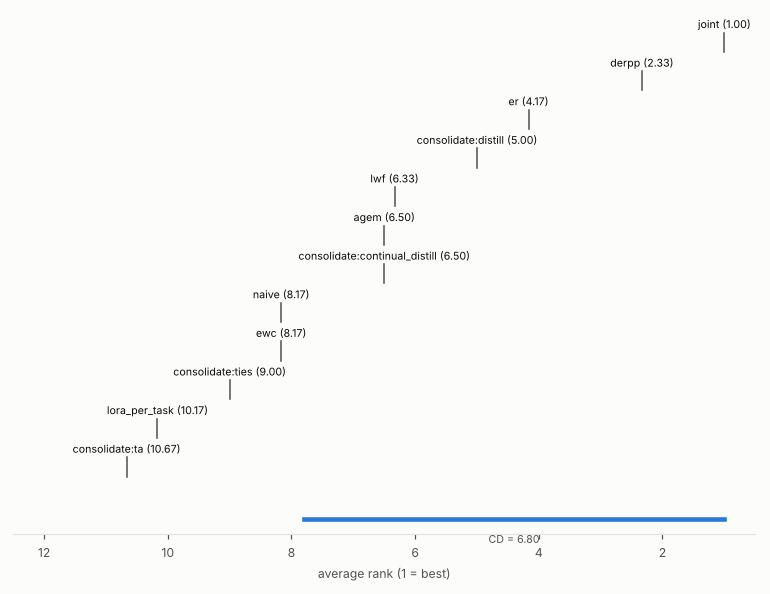
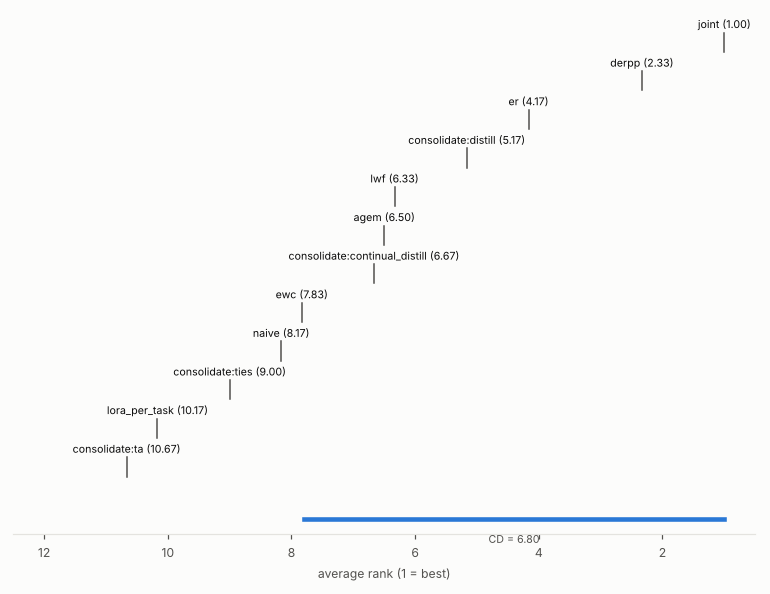
Results: EWC with the stiffness cap in the main study and the tuned sweep
The 24 SGD EWC runs of cpu_main and the 72 runs of the cpu_tuned EWC sweep
were re-run with the Fisher clamped at 1/(lr*lambda); only their CSV rows
change, and every other row is unchanged byte for byte. The tuned EWC rows'
intransigence was recomputed against the same Joint runs.

- No run diverges any more: cpu_main has 324 done runs.
- MNIST results are unchanged (the cap binds on one Permuted MNIST seed).
- On CIFAR EWC is stable but below Naive: 0.159 vs 0.182 on Split CIFAR-10,
  0.041 vs 0.046 on Split CIFAR-100.
- Tuned sweep: lambda 100 and 300 no longer diverge on Permuted MNIST (0.817,
  0.769); lambda 30 is still selected (0.832).
- Average ranks: EWC 7.8, multi-teacher distillation 5.2, continual
  distillation 6.7; Friedman p = 5.8e-6.

Results page, FAQ, README, home pages, llms.txt, CHANGELOG (Fixed), HANDOFF
and the CD diagram are updated.

diff --git a/docs/wiki/Results.md b/docs/wiki/Results.md
@@ -51,12 +51,26 @@ contilab. The page has three experiments:
 > - Average ranks: DER++ 2.3 (was 2.7), multi-teacher distillation 5.0 (4.7), EWC 8.2 (9.5). DER++ is no longer
 >   significantly ahead of EWC.
 
+> **Update: EWC stiffness cap.** Under SGD, EWC's penalty multiplies a parameter's distance from its anchor by
+> (1 − lr·λ·F) per step, and the online Fisher F only grows from task to task. Once lr·λ·F exceeds 2 the
+> parameter oscillates with growing amplitude, which is how the divergences above came about. EWC now clamps the
+> stored Fisher at 1 / (lr·λ) when the optimiser is SGD (see [Methods](Methods.md)). The 24 SGD EWC runs of the
+> main study and the 72 runs of the tuned EWC sweep were re-run:
+> - No run diverges any more: the main study has 324 done runs.
+> - The MNIST results are unchanged except one Permuted MNIST seed, where the cap binds (0.8294 instead of 0.8287).
+> - On CIFAR, EWC is stable but below Naive: 0.159 vs 0.182 on Split CIFAR-10 and 0.041 vs 0.046 on Split
+>   CIFAR-100.
+> - In the tuned comparison, λ = 100 and λ = 300 no longer diverge on Permuted MNIST (0.817 and 0.769), and
+>   λ = 30 is still selected (0.832).
+> - Average ranks: EWC 7.8 (was 8.2), multi-teacher distillation 5.2, continual distillation 6.7; Friedman
+>   p = 5.8·10⁻⁶.
+
 ## Setup
 
 | | |
 |---|---|
 | Hardware | 4 CPU cores (Intel Xeon @ 2.1 GHz, AMX/AVX512-BF16), 15 GB RAM, no GPU |
-| Main study | 12 methods × (3 MNIST benchmarks × 6 seeds + 3 other benchmarks × 3 seeds) = **324 runs**: 320 done, 4 diverged (EWC on Split CIFAR-10 and CIFAR-100), 0 failed |
+| Main study | 12 methods × (3 MNIST benchmarks × 6 seeds + 3 other benchmarks × 3 seeds) = **324 runs**: 324 done, 0 diverged, 0 failed |
 | Vision | Split MNIST (Class-IL and Task-IL) and Permuted MNIST (10 tasks, 10k/2k samples per task) with an MLP 2×400, 1 epoch, SGD lr 0.03; Split CIFAR-10 and Split CIFAR-100 (Class-IL; 5 × 2 and 10 × 10 classes) with a reduced ResNet-18, **2 epochs**, bf16 |
 | Language | text5 (AG News → Yelp → Amazon → DBpedia → Yahoo, 33 classes) with **Pythia-70M**, **1,000 train / 200 test texts per task**, 1 epoch, AdamW lr 1e-4, batch 16 |
 | Memory budget | 500 samples (vision) / 200 (text) for ER, DER++, A-GEM and both distillation methods |
@@ -71,14 +85,13 @@ Deviations from the original design, all made to fit a CPU budget:
 
 ## Accuracy overview
 
-Final average accuracy (ACC), mean ± std over 6 seeds (MNIST benchmarks) or 3 seeds (CIFAR, text5). † = number of
-seeds that diverged; the mean is over the other seeds.
+Final average accuracy (ACC), mean ± std over 6 seeds (MNIST benchmarks) or 3 seeds (CIFAR, text5).
 
 | Method | Split MNIST (Class-IL) | Split MNIST (Task-IL) | Permuted MNIST (Domain-IL) | Split CIFAR-10 (Class-IL) | Split CIFAR-100 (Class-IL) | text5 + Pythia-70M (Class-IL) |
 |---|---|---|---|---|---|---|
 | Naive | 0.196 ± 0.000 | 0.980 ± 0.001 | 0.805 ± 0.011 | 0.182 ± 0.004 | 0.046 ± 0.004 | 0.097 ± 0.016 |
 | Joint | 0.950 ± 0.002 | 0.993 ± 0.001 | 0.909 ± 0.006 | 0.462 ± 0.017 | 0.120 ± 0.006 | 0.529 ± 0.015 |
-| EWC | 0.196 ± 0.000 | 0.981 ± 0.001 | 0.832 ± 0.015 | 0.165 ± 0.004 †1 | diverged (3/3) | 0.105 ± 0.015 |
+| EWC | 0.196 ± 0.000 | 0.981 ± 0.001 | 0.832 ± 0.015 | 0.159 ± 0.009 | 0.041 ± 0.002 | 0.105 ± 0.015 |
 | LwF | 0.228 ± 0.005 | 0.990 ± 0.001 | 0.817 ± 0.010 | 0.171 ± 0.004 | 0.047 ± 0.002 | 0.105 ± 0.006 |
 | ER | 0.858 ± 0.012 | 0.983 ± 0.001 | 0.869 ± 0.004 | 0.290 ± 0.027 | 0.057 ± 0.007 | 0.329 ± 0.038 |
 | DER++ | 0.871 ± 0.014 | 0.991 ± 0.001 | 0.902 ± 0.002 | 0.285 ± 0.018 | 0.063 ± 0.007 | 0.397 ± 0.068 |
@@ -98,18 +111,17 @@ seeds that diverged; the mean is over the other seeds.
 | 1.0 | Joint |
 | 2.3 | DER++ |
 | 4.2 | ER |
-| 5.0 | Multi-teacher distillation |
+| 5.2 | Multi-teacher distillation |
 | 6.3 | LwF |
 | 6.5 | A-GEM |
-| 6.5 | Continual distillation |
+| 6.7 | Continual distillation |
+| 7.8 | EWC |
 | 8.2 | Naive |
-| 8.2 | EWC |
 | 9.0 | TIES |
 | 10.2 | LoRA-per-task |
 | 10.7 | Task Arithmetic |
 
-A diverged seed is ranked by the final accuracy of its model, whose parameters stop changing at the divergence.
-The Friedman test gives p = 4.5·10⁻⁶, and the Nemenyi critical difference is 6.80 (α = 0.05). With 6
+The Friedman test gives p = 5.8·10⁻⁶, and the Nemenyi critical difference is 6.80 (α = 0.05). With 6
 benchmarks the CD is still wide:
 
 - Joint is significantly better than Naive, EWC, TIES, LoRA-per-task and Task Arithmetic.
@@ -152,7 +164,7 @@ With 6 pairs the smallest possible two-sided p is 0.031, reached when every seed
    - ER on Split CIFAR-10 (0.290, DER++ 0.285), and DER++ on Split CIFAR-100 (0.063, ER 0.057)
    - multi-teacher distillation on text5 (0.452)
 
-   Average ranks: DER++ 2.3, ER 4.2, multi-teacher distillation 5.0. Replay also has the smallest stability gap,
+   Average ranks: DER++ 2.3, ER 4.2, multi-teacher distillation 5.2. Replay also has the smallest stability gap,
    for example 0.150 (DER++) vs 0.995 for Naive on Split MNIST Class-IL.
 2. **Multi-teacher distillation buys accuracy with experts.**
    - It keeps every task expert: 11 MB of stored models on Split MNIST against 1.8 MB for a single model.
@@ -179,14 +191,19 @@ With 6 pairs the smallest possible two-sided p is 0.031, reached when every seed
    on Split MNIST Class-IL, with task-recency bias ≈ 1.0: almost every old-task sample is predicted as a
    newest-task class. LwF is above Naive on all 6 seeds; EWC with λ = 30 is not (higher on 2 of 6 seeds,
    p = 1), and λ = 100 led by only 0.001. The same holds on text5 (0.105 vs 0.097), Split CIFAR-10 (LwF 0.171,
-   EWC 0.165, Naive 0.182) and Split CIFAR-100 (LwF 0.047 vs 0.046). Tuning does not change this (see
+   EWC 0.159, Naive 0.182) and Split CIFAR-100 (LwF 0.047, EWC 0.041, Naive 0.046). Tuning does not change this (see
    [Tuned comparison](#tuned-comparison)).
-5. **EWC is sensitive to λ.** With the literature default λ = 100 and an online (accumulated) Fisher, every seed
-   diverged on Permuted MNIST, Split CIFAR-10 and Split CIFAR-100. The default is now λ = 30, chosen on
-   validation accuracy: Permuted MNIST trains stably and reaches 0.832, above Naive (0.805) on 5 of 6 seeds
-   (p = 0.063). On CIFAR λ = 30 only delays the divergence: one Split CIFAR-10 seed diverges in the last of 5
-   tasks, and every Split CIFAR-100 seed in task 5, 9 or 10 of 10. The accumulated Fisher keeps growing from task
-   to task, so the penalty eventually becomes too stiff for the learning rate.
+5. **EWC needs its stiffness bounded under SGD.** With the literature default λ = 100 and an online
+   (accumulated) Fisher, every seed diverged on Permuted MNIST, Split CIFAR-10 and Split CIFAR-100. λ = 30, chosen
+   on validation accuracy, only delayed the divergence on CIFAR: one Split CIFAR-10 seed diverged in the last of
+   5 tasks, and every Split CIFAR-100 seed in task 5, 9 or 10 of 10.
+   - The cause: an SGD step multiplies a parameter's distance from its anchor by (1 − lr·λ·F), which oscillates
+     with growing amplitude once lr·λ·F > 2, and the accumulated Fisher crosses that bound sooner or later. On
+     Permuted MNIST with λ = 100 (seed 0) the largest lr·λ·F grew from 0.54 after the first task to 2.13 after the
+     seventh, and the run diverged in the eighth.
+   - With the Fisher clamped at 1 / (lr·λ), no run diverges. Permuted MNIST reaches 0.832 with λ = 30, above
+     Naive (0.805) on 5 of 6 seeds (p = 0.063). On CIFAR the clamped EWC is stable but below Naive (0.159 vs
+     0.182, 0.041 vs 0.046).
 6. **A-GEM helps in Domain-IL but not in Class-IL.** It reaches 0.864 on Permuted MNIST but only 0.335 on Split
    MNIST Class-IL, and stays at the Naive level on CIFAR-10, CIFAR-100 and text5. This matches the known
    weakness of gradient projection under class-incremental output heads.
@@ -234,13 +251,13 @@ diverged seeds score 0. Optimiser, learning rate, epochs, batch size and memory 
 fairness rules. "Default" is the literature default: λ = 100 for EWC and the v0.1 defaults for distillation. The
 main study now uses λ = 30 and the selected distillation settings, with 10 instead of 30 epochs. This
 experiment has 6 seeds, like the MNIST benchmarks of the main study, so its other default and untuned values are
-the same as in the overview above. † = number of diverged seeds.
+the same as in the overview above.
 
 | Method | Split MNIST Class-IL: selected | default | tuned | Permuted MNIST: selected | default | tuned |
 |---|---|---|---|---|---|---|
 | Naive | — | 0.196 | 0.196 | — | 0.805 | 0.805 |
 | Joint | — | 0.950 | 0.950 | — | 0.909 | 0.909 |
-| EWC | λ=300 | 0.197 | **0.201** | λ=30 | diverged 6/6 | **0.832** |
+| EWC | λ=300 | 0.197 | **0.201** | λ=30 | 0.817 | **0.832** |
 | LwF | α=1 | 0.229 | **0.229** | α=0.5 | 0.816 | **0.828** |
 | ER | — | 0.858 | 0.858 | — | 0.869 | 0.869 |
 | DER++ | α=1, β=1 | 0.871 | **0.899** | α=0.3, β=1 | 0.902 | **0.906** |
@@ -258,8 +275,9 @@ the same as in the overview above. † = number of diverged seeds.
   - With 6 seeds, 30 epochs is selected on both benchmarks. It is 0.008 and 0.013 above 10 epochs (0.863 and
     0.773) and takes three times the distillation time, so the default stays at 10.
 - **Tuning does not rescue regularisation in Class-IL.** No λ makes EWC differ from Naive on Split MNIST
-  Class-IL (0.196–0.201), and no α lifts LwF above 0.230. On Permuted MNIST, λ = 30 avoids the divergence of
-  λ = 100 and λ = 300 and gives 0.832 (Naive 0.805); it is now EWC's default on vision.
+  Class-IL (0.196–0.201), and no α lifts LwF above 0.230. On Permuted MNIST λ = 30 gives 0.832 (Naive 0.805)
+  and is now EWC's default on vision. Without the stiffness cap, λ = 100 and λ = 300 diverged on every seed;
+  with it they reach 0.817 and 0.769.
 - DER++ gains 0.03 with stronger replay terms (α = β = 1: 0.899 against 0.871). TIES gains 0.03 with sparser task
   vectors (k = 0.1: 0.591 against 0.561) on Split MNIST Class-IL.
 - Average ranks over the two benchmarks, using the selected variants:
@@ -296,12 +314,10 @@ Means over 6 seeds (MNIST benchmarks) or 3 seeds (CIFAR, text5).
   different CPU load. It includes expert training for consolidation methods and Fisher computation for EWC.
   Joint and both distillation methods were re-run for v0.2 while other jobs shared the CPU, and wall times of
   runs from different sessions vary by up to 2× with load. The CIFAR runs and the MNIST EWC runs come from one
-  later session that ran two run groups at a time, so the MNIST EWC wall times are not comparable with the other
-  MNIST rows.
+  later session that ran two run groups at a time. The EWC runs were re-run once more for the stiffness cap
+  while tests shared the CPU, so the EWC wall times are not comparable with the other rows.
 - `buffer_bytes` counts the stored samples (or the distillation transfer set) and DER++ logits.
 - `state_bytes` counts extra state kept between tasks: the EWC Fisher diagonal and anchor, and the LwF teacher.
-- EWC has no row on Split CIFAR-100 because every seed diverged. Its Split CIFAR-10 row is the mean of the two
-  seeds that did not diverge.
 
 ### Split MNIST (Class-IL)
 
@@ -309,7 +325,7 @@ Means over 6 seeds (MNIST benchmarks) or 3 seeds (CIFAR, text5).
 |---|---|---|---|---|---|---|---|---|---|
 | Naive | 0.196 | -0.992 | 0.989 | 0.000 | 0.995 | 1.000 | 0 | 0 | 11 s |
 | Joint | 0.950 | — | — | — | — | 0.012 | 0 | 0 | 10 s |
-| EWC | 0.196 | -0.992 | 0.989 | 0.000 | 0.995 | 1.000 | 0 | 3.65 MB | 68 s |
+| EWC | 0.196 | -0.992 | 0.989 | 0.000 | 0.995 | 1.000 | 0 | 3.65 MB | 74 s |
 | LwF | 0.228 | -0.953 | 0.990 | 0.025 | 0.970 | 0.956 | 0 | 1.82 MB | 18 s |
 | ER | 0.858 | -0.148 | 0.976 | 0.757 | 0.155 | 0.125 | 1.50 MB | 0 | 14 s |
 | DER++ | 0.871 | -0.143 | 0.986 | 0.764 | 0.150 | 0.120 | 1.52 MB | 0 | 17 s |
@@ -326,7 +342,7 @@ Means over 6 seeds (MNIST benchmarks) or 3 seeds (CIFAR, text5).
 |---|---|---|---|---|---|---|---|---|
 | Naive | 0.980 | -0.012 | 0.990 | 0.970 | 0.016 | 0 | 0 | 10 s |
 | Joint | 0.993 | — | — | — | — | 0 | 0 | 10 s |
-| EWC | 0.981 | -0.010 | 0.990 | 0.972 | 0.015 | 0 | 3.65 MB | 68 s |
+| EWC | 0.981 | -0.010 | 0.990 | 0.972 | 0.015 | 0 | 3.65 MB | 75 s |
 | LwF | 0.990 | -0.001 | 0.990 | 0.991 | 0.003 | 0 | 1.82 MB | 18 s |
 | ER | 0.983 | -0.006 | 0.987 | 0.980 | 0.009 | 1.50 MB | 0 | 14 s |
 | DER++ | 0.991 | -0.001 | 0.992 | 0.985 | 0.008 | 1.52 MB | 0 | 18 s |
@@ -343,7 +359,7 @@ Means over 6 seeds (MNIST benchmarks) or 3 seeds (CIFAR, text5).
 |---|---|---|---|---|---|---|---|---|
 | Naive | 0.805 | -0.104 | 0.898 | 0.763 | 0.025 | 0 | 0 | 20 s |
 | Joint | 0.909 | — | — | — | — | 0 | 0 | 19 s |
-| EWC | 0.832 | -0.046 | 0.873 | 0.791 | 0.024 | 0 | 3.65 MB | 131 s |
+| EWC | 0.832 | -0.046 | 0.873 | 0.791 | 0.024 | 0 | 3.65 MB | 284 s |
 | LwF | 0.817 | -0.085 | 0.893 | 0.779 | 0.022 | 0 | 1.82 MB | 33 s |
 | ER | 0.869 | -0.046 | 0.910 | 0.846 | 0.021 | 1.50 MB | 0 | 27 s |
 | DER++ | 0.902 | -0.004 | 0.906 | 0.884 | -0.001 | 1.52 MB | 0 | 34 s |
@@ -360,7 +376,7 @@ Means over 6 seeds (MNIST benchmarks) or 3 seeds (CIFAR, text5).
 |---|---|---|---|---|---|---|---|---|---|
 | Naive | 0.182 | -0.797 | 0.820 | 0.000 | 0.795 | 1.000 | 0 | 0 | 344 s |
 | Joint | 0.462 | — | — | — | — | 0.081 | 0 | 0 | 360 s |
-| EWC | 0.165 | -0.753 | 0.767 | 0.000 | 0.741 | 1.000 | 0 | 8.35 MB | 439 s |
+| EWC | 0.159 | -0.778 | 0.782 | 0.000 | 0.771 | 1.000 | 0 | 8.35 MB | 924 s |
 | LwF | 0.171 | -0.791 | 0.805 | 0.000 | 0.787 | 1.000 | 0 | 4.18 MB | 460 s |
 | ER | 0.290 | -0.684 | 0.837 | 0.080 | 0.666 | 0.701 | 5.86 MB | 0 | 641 s |
 | DER++ | 0.285 | -0.626 | 0.786 | 0.060 | 0.620 | 0.700 | 5.88 MB | 0 | 632 s |
@@ -377,6 +393,7 @@ Means over 6 seeds (MNIST benchmarks) or 3 seeds (CIFAR, text5).
 |---|---|---|---|---|---|---|---|---|---|
 | Naive | 0.046 | -0.402 | 0.408 | 0.000 | 0.393 | 1.000 | 0 | 0 | 409 s |
 | Joint | 0.120 | — | — | — | — | 0.155 | 0 | 0 | 425 s |
+| EWC | 0.041 | -0.366 | 0.370 | 0.000 | 0.352 | 1.000 | 0 | 8.46 MB | 490 s |
 | LwF | 0.047 | -0.408 | 0.414 | 0.000 | 0.396 | 1.000 | 0 | 4.23 MB | 476 s |
 | ER | 0.057 | -0.398 | 0.416 | 0.003 | 0.335 | 0.968 | 5.86 MB | 0 | 722 s |
 | DER++ | 0.063 | -0.409 | 0.431 | 0.004 | 0.373 | 0.968 | 6.05 MB | 0 | 704 s |
@@ -417,8 +434,8 @@ almost all of it from bf16, so the CIFAR presets train in bf16 without compile.
 | # | Criterion | Verdict | Evidence |
 |---|---|---|---|
 | 1 | Smoke profile: every method and consolidation path finishes within 60 s; all tests pass | Met | 66 smoke runs within the 60 s test on an idle 4-core CPU; 188 tests pass on Python 3.11 and 3.13 in CI (5 network tests skipped by default) |
-| 2 | CPU profile matrix completes in the session and produces a report | Met, with the budget deviations listed above | 324/324 runs finished (320 done, 4 diverged, 0 failed); `report.md` / `report.html` generated |
-| 3 | Split MNIST Class-IL ordering Naive < {EWC, LwF} < {ER, DER++} < Joint (mean ACC) | Partly met: not for EWC | 0.196 < 0.228 (LwF) < 0.858 / 0.871 < 0.950, each step on all 6 seeds (exact Wilcoxon p = 0.031, the minimum for 6 pairs). EWC with λ = 30 equals Naive (0.196, higher on 2 of 6 seeds, p = 1); λ = 100 was ahead by 0.001 on every seed but diverges on Permuted MNIST and CIFAR |
+| 2 | CPU profile matrix completes in the session and produces a report | Met, with the budget deviations listed above | 324/324 runs finished (324 done, 0 diverged, 0 failed); `report.md` / `report.html` generated |
+| 3 | Split MNIST Class-IL ordering Naive < {EWC, LwF} < {ER, DER++} < Joint (mean ACC) | Partly met: not for EWC | 0.196 < 0.228 (LwF) < 0.858 / 0.871 < 0.950, each step on all 6 seeds (exact Wilcoxon p = 0.031, the minimum for 6 pairs). EWC with λ = 30 equals Naive (0.196, higher on 2 of 6 seeds, p = 1); λ = 100 was ahead by 0.001 on every seed |
 | 4 | `contilab bench` reports vmap / compile speed-ups | Met | MLP vmap E=8: 3.8×; ResNet bf16 + compile: 2.3×; ResNet vmap: no gain (reported) |
 | 5 | Equivalence and consistency tests pass | Met | vmap members = single runs, compile = eager, EWC(λ=0) / ER(M=0) / DER++(0,0) = Naive, merge identities, resume = uninterrupted run |
 

diff --git a/README.md b/README.md
@@ -125,7 +125,7 @@ average accuracy (mean over seeds):
 |---|---|---|---|---|---|---|
 | Naive | 0.196 | 0.980 | 0.805 | 0.182 | 0.046 | 0.097 |
 | Joint (upper bound) | 0.950 | 0.993 | 0.909 | 0.462 | 0.120 | 0.529 |
-| EWC | 0.196 | 0.981 | 0.832 | 0.165 (1 of 3 diverged) | diverged | 0.105 |
+| EWC | 0.196 | 0.981 | 0.832 | 0.159 | 0.041 | 0.105 |
 | LwF | 0.228 | 0.990 | 0.817 | 0.171 | 0.047 | 0.105 |
 | ER | 0.858 | 0.983 | 0.869 | **0.290** | 0.057 | 0.329 |
 | DER++ | **0.871** | **0.991** | **0.902** | 0.285 | **0.063** | 0.397 |
@@ -137,14 +137,14 @@ average accuracy (mean over seeds):
 | Teacher → student continual distillation | 0.586 | 0.980 | 0.818 | 0.229 | 0.030 | 0.331 |
 
 - **Ranking.** Replay (DER++, ER) and multi-teacher distillation rank best after Joint (average ranks 2.3, 4.2
-  and 5.0; Friedman p = 4.5·10⁻⁶). On Split MNIST Class-IL, multi-teacher distillation and DER++ do not differ
+  and 5.2; Friedman p = 5.8·10⁻⁶). On Split MNIST Class-IL, multi-teacher distillation and DER++ do not differ
   significantly over 6 seeds.
 - **Distillation needed tuning.** It needed validation-tuned defaults: a TIES-merged student and targets routed
   to each sample's teacher. With the v0.1 defaults it ranked last.
 - **Continual distillation** stores no experts and still beats Naive on every Class- and Domain-IL benchmark
   except Split CIFAR-100.
-- **Regularisation** stays at the Naive level in Class-IL even after tuning. EWC uses λ = 30 on vision, chosen on
-  validation accuracy; it still diverges late in the stream on Split CIFAR-10 and CIFAR-100.
+- **Regularisation** stays at the Naive level in Class-IL even after tuning. EWC (λ = 30 on vision, chosen on
+  validation accuracy, with its stiffness bounded under SGD) no longer diverges, but stays below Naive on CIFAR.
 - **Split CIFAR-100** at 2 CPU epochs is a floor test: Joint reaches only 0.120, and DER++ and ER are the only
   continual methods clearly above Naive.
 - **Language models.** LoRA-per-task keeps the language model's general ability (perplexity +186 vs +7,481 for

diff --git a/docs/wiki/FAQ.md b/docs/wiki/FAQ.md
@@ -85,13 +85,16 @@ profile or set `engine.device: cuda`; mixed precision and compilation are then c
 Strategies, metrics, benchmarks and consolidation methods are registered plugins. [Extending](Extending.md) shows
 the interface of each and the tests it needs.
 
-## Why is EWC marked `diverged` in some runs?
+## Why did EWC diverge, and how is it prevented?
 
-With an accumulated (online) Fisher, the penalty grows from task to task and eventually becomes too stiff for the
-learning rate, and the loss explodes. With the literature default λ = 100 every seed diverged on Permuted MNIST
-and Split CIFAR-10/100. The vision default is now λ = 30, chosen on validation accuracy: it trains stably on
-Permuted MNIST, but on Split CIFAR-10 (1 of 3 seeds) and CIFAR-100 (3 of 3) the divergence still comes late in
-the stream. Diverged runs are kept and flagged rather than dropped; sweep `method.params.lam` to tune it.
+Under SGD, EWC's penalty multiplies a parameter's distance from its anchor by (1 − lr·λ·F) per step. The online
+Fisher F only grows from task to task, and once lr·λ·F exceeds 2 the parameter oscillates with growing amplitude
+and the loss explodes. Before EWC bounded this, every seed diverged with λ = 100 on Permuted MNIST and Split
+CIFAR-10/100, and some CIFAR seeds still did with λ = 30.
+
+EWC now clamps the stored Fisher so that lr·λ·F ≤ `method.params.max_stiffness` (default 1) under SGD, and no run
+of the CPU study diverges. Setting `max_stiffness: null` turns the clamp off. Any run whose loss becomes
+non-finite or exceeds 1000 × its first value is still kept and flagged `diverged` rather than dropped.
 
 ## Why is FWT empty in class-incremental learning?
 

diff --git a/docs/changelog.md b/docs/changelog.md
@@ -16,10 +16,18 @@ nav_title: "Changelog"
 - The Split CIFAR-10 and CIFAR-100 presets of the `cpu` profile train in bf16 without `torch.compile`: compile added
   no throughput at steady state and took about 50 s per graph.
 - The main study's CIFAR runs and MNIST EWC runs were re-run with these defaults, and the results, tables and
-  figures were updated. EWC still diverges late in the stream on Split CIFAR-10 (1 of 3 seeds) and CIFAR-100
-  (3 of 3).
+  figures were updated.
 - The tuned comparison (`cpu_tuned`) has 6 seeds, like the MNIST benchmarks of the main study. Its config pins the
   consolidation defaults it was run with, so its run ids stay those of the published results.
+
+### Fixed
+- EWC no longer diverges on long task streams under SGD. A step multiplies a parameter's distance from its anchor
+  by (1 − lr·λ·F), and the online Fisher only grows, so once lr·λ·F exceeded 2 the run diverged: with λ = 30, late
+  in the stream on Split CIFAR-10 (1 of 3 seeds) and CIFAR-100 (3 of 3). The stored Fisher is now clamped at
+  `max_stiffness / (lr·λ)` (`method.params.max_stiffness`, default 1, `null` turns it off) when the optimiser is
+  SGD; Adam-type optimisers are not clamped. No run of the main study or the tuned EWC sweep diverges any more; the
+  MNIST results are unchanged, and on CIFAR EWC is stable but below Naive. The EWC runs of both studies were
+  re-run.
 
 ### Added
 - Zenodo DOI `10.5281/zenodo.23906803` (all versions): a badge in the README, `doi` in `CITATION.cff` and the BibTeX entries,

diff --git a/CHANGELOG.md b/CHANGELOG.md
@@ -8,10 +8,18 @@
 - The Split CIFAR-10 and CIFAR-100 presets of the `cpu` profile train in bf16 without `torch.compile`: compile added
   no throughput at steady state and took about 50 s per graph.
 - The main study's CIFAR runs and MNIST EWC runs were re-run with these defaults, and the results, tables and
-  figures were updated. EWC still diverges late in the stream on Split CIFAR-10 (1 of 3 seeds) and CIFAR-100
-  (3 of 3).
+  figures were updated.
 - The tuned comparison (`cpu_tuned`) has 6 seeds, like the MNIST benchmarks of the main study. Its config pins the
   consolidation defaults it was run with, so its run ids stay those of the published results.
+
+### Fixed
+- EWC no longer diverges on long task streams under SGD. A step multiplies a parameter's distance from its anchor
+  by (1 − lr·λ·F), and the online Fisher only grows, so once lr·λ·F exceeded 2 the run diverged: with λ = 30, late
+  in the stream on Split CIFAR-10 (1 of 3 seeds) and CIFAR-100 (3 of 3). The stored Fisher is now clamped at
+  `max_stiffness / (lr·λ)` (`method.params.max_stiffness`, default 1, `null` turns it off) when the optimiser is
+  SGD; Adam-type optimisers are not clamped. No run of the main study or the tuned EWC sweep diverges any more; the
+  MNIST results are unchanged, and on CIFAR EWC is stable but below Naive. The EWC runs of both studies were
+  re-run.
 
 ### Added
 - Zenodo DOI `10.5281/zenodo.23906803` (all versions): a badge in the README, `doi` in `CITATION.cff` and the BibTeX entries,

diff --git a/docs/ko/index.md b/docs/ko/index.md
@@ -46,7 +46,7 @@ permalink: /ko/
 CPU에서 방법 12종을 벤치마크 6종에 대해 실행했습니다. 모두 324회이며, 설정마다 시드 3~6개입니다.
 
 - **리플레이 계열이 가장 우수합니다.** Joint 다음으로 DER++와 경험 재생의 평균 순위가 가장 높습니다(6개
-  벤치마크 평균 2.3, 4.2, Friedman p = 4.5·10⁻⁶).
+  벤치마크 평균 2.3, 4.2, Friedman p = 5.8·10⁻⁶).
 - **다중 교사 증류는 튜닝이 필요했습니다.** 검증 정확도로 고른 설정에서 Split MNIST(클래스 점진) 정확도가
   0.223에서 0.871로 올랐습니다. 이 설정을 기본값으로 쓰면 6시드 평균 0.863으로, DER++(0.871)와 유의한 차이가
   없습니다.

diff --git a/docs/index.md b/docs/index.md
@@ -47,7 +47,7 @@ fair, reproducible comparisons of methods across seeds, benchmarks and model siz
 A CPU study ran 12 methods on 6 benchmarks: 324 runs, with 3 to 6 seeds each.
 
 - **Replay leads.** After Joint training, DER++ and Experience Replay have the best average ranks across the 6
-  benchmarks: 2.3 and 4.2 (Friedman p = 4.5·10⁻⁶).
+  benchmarks: 2.3 and 4.2 (Friedman p = 5.8·10⁻⁶).
 - **Multi-teacher distillation needed tuning.** Settings chosen on validation accuracy lifted it from 0.223 to
   0.871 on Split MNIST (class-incremental). With them as defaults it reaches 0.863 over 6 seeds, not
   significantly different from DER++ (0.871).
